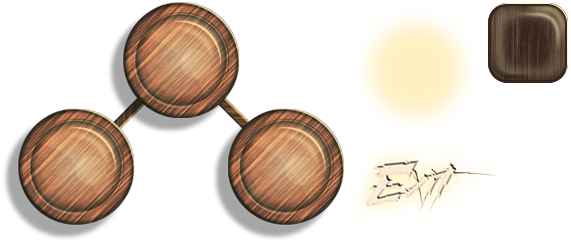
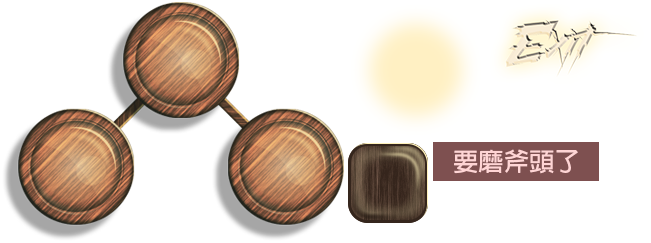
Add NeedSharpening Text

diff --git a/javascript/math_game/js/LoggingPage.js b/javascript/math_game/js/LoggingPage.js
@@ -31,6 +31,12 @@ demo.LoggingPage = {
         LoggingSuccess = game.add.audio('LoggingSuccess');
                 
 
+        //Text---------------------------------------------------------------------------------------------------
+        NeedSharpeningText = game.add.sprite(0,100,'Panel',"NeedSharpeningText.png");
+        NeedSharpeningTextTween = game.add.tween(NeedSharpeningText).to({alpha:0.1},500,'Quad.easeInOut',true,0,false,true).loop(true);
+        NeedSharpeningTextTween.pause();
+        NeedSharpeningText.alpha = 0;
+        
         //FoxBounceAnimation------------------------------------------------------------------------------------------------------
         FoxBounce001 = game.add.sprite(-10,100,'FoxBounce001');
         FoxBounce001Animation = FoxBounce001.animations.add("FoxBounce001Dynamic",Phaser.Animation.generateFrameNames('FoxBounce_',100,128,'.png',5),10,true);
@@ -116,6 +122,8 @@ demo.LoggingPage = {
         FoxLogging003Animation.onComplete.add(function () {	
             FoxLogging003.alpha = 0;
             if( AxBarSharp.x <= -243 ){
+                NeedSharpeningTextTween.resume();
+                NeedSharpeningText.alpha = 1;
                 FoxBounce001.alpha = 1;
                 FoxBounce001.animations.play("FoxBounce001Dynamic",15,false);        
             }
@@ -158,6 +166,7 @@ demo.LoggingPage = {
             AnswerPanel[i].inputEnabled = false;
             AnswerPanel[i].variable = i+1;
         }
+
         //PanelGlow-------------------------------------------------------------------------------------------------
       
         PanelGlowNumSum = game.add.sprite(0,100,'Panel','PanelGlowSum.png');
@@ -444,7 +453,9 @@ function StartLogging(){
     FoxStanding.animations.stop();
     if( AxBarSharp.x <= -243 ){
         FoxBounce001.alpha = 1;
-        FoxBounce001.animations.play("FoxBounce001Dynamic",15,false);        
+        FoxBounce001.animations.play("FoxBounce001Dynamic",15,false);  
+        NeedSharpeningTextTween.resume();
+        NeedSharpeningText.alpha = 1;
     }
     if( AxBarSharp.x > -243 ){
         FoxLogging001.alpha = 1;
@@ -528,6 +539,8 @@ function StopLogging(){
     //LoggingPageExitTextTween.resume();
     //LoggingPageExitText.alpha = 1;
     
+    NeedSharpeningTextTween.pause();
+    NeedSharpeningText.alpha = 0;
     
     FoxStanding.alpha = 1;
     FoxStanding.animations.play("FoxStandingDynamic",15,true);
